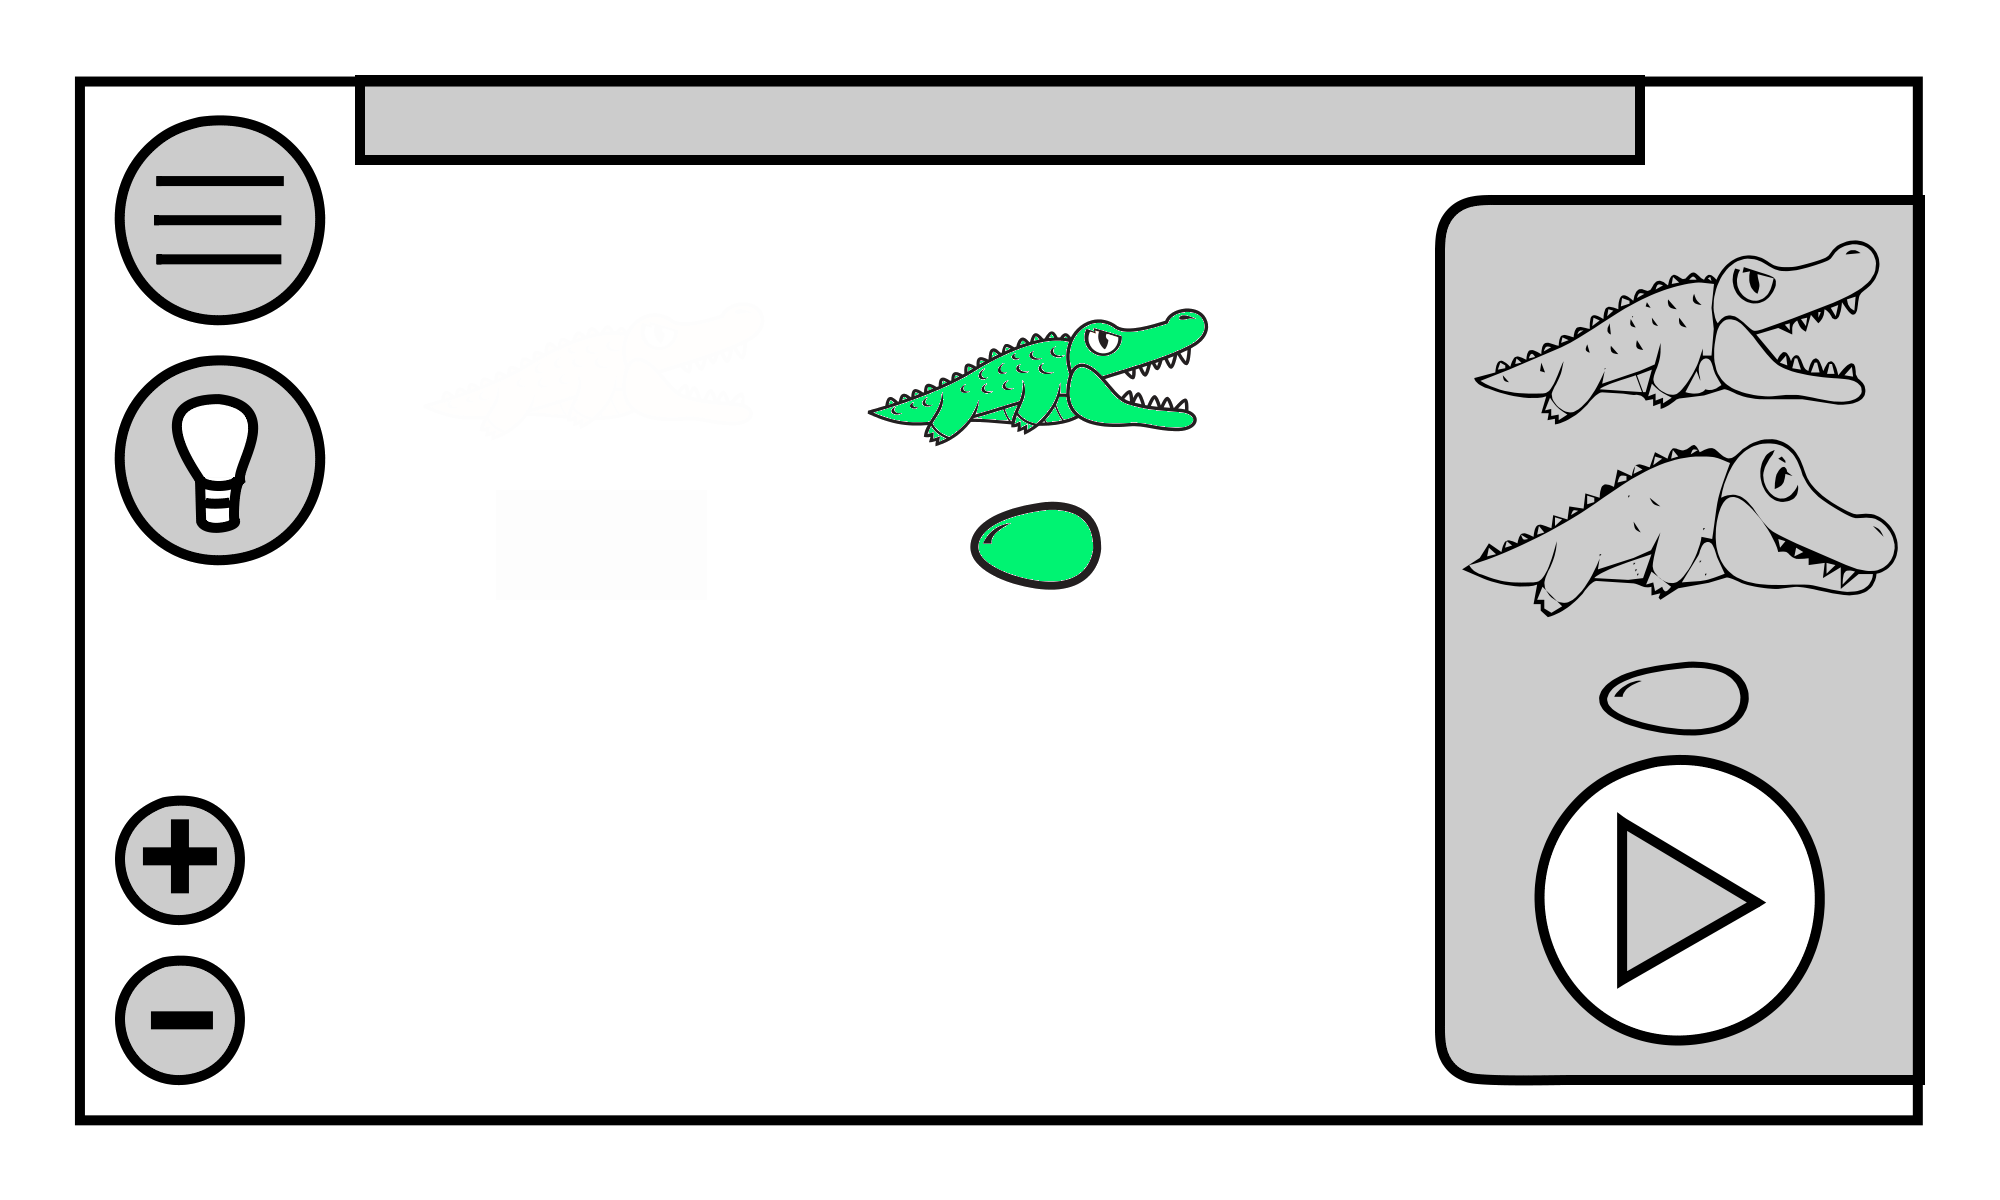
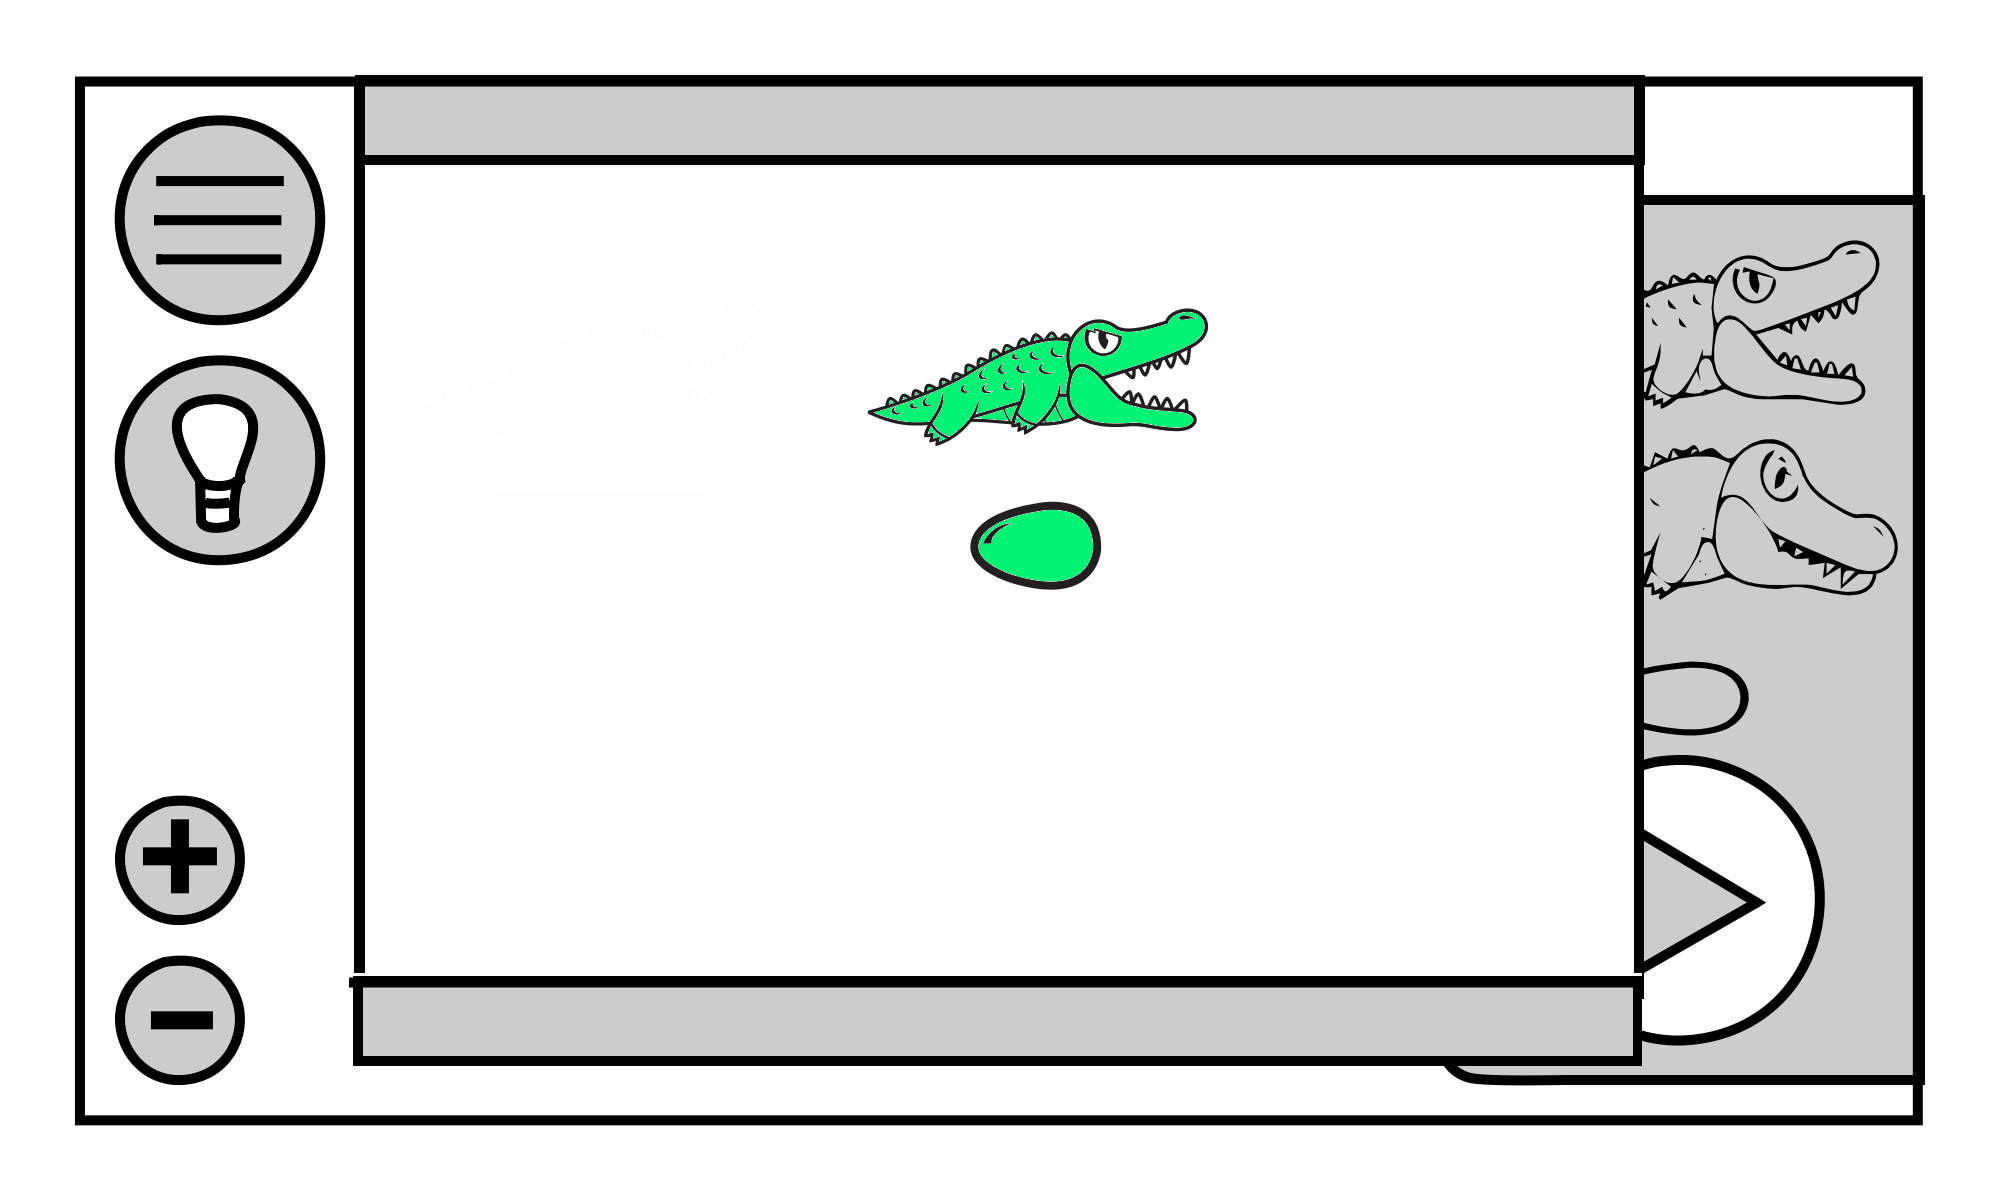
Add more pictures to the presentation.

Changed region(s): [[0.155, 0.1233, 0.837, 0.8942]]

diff --git a/pflichtenheft/presentation.tex b/pflichtenheft/presentation.tex
@@ -66,6 +66,14 @@ Lukas Böhm $\cdot$ Tobias Hornberger $\cdot$ Jonas Mehlhaus \\ Iris Mehrbrodt  
 \end{frame}
 \begin{frame}
 	\frametitle{Bedienung}
+	\includegraphics[height=\textheight]{level_end.png}
+\end{frame}
+\begin{frame}
+	\frametitle{Bedienung}
+	\includegraphics[height=\textheight]{level_start.png}
+\end{frame}
+\begin{frame}
+	\frametitle{Bedienung}
 	\includegraphics[height=\textheight]{level_colored_croc.png}
 \end{frame}
 \begin{frame}
